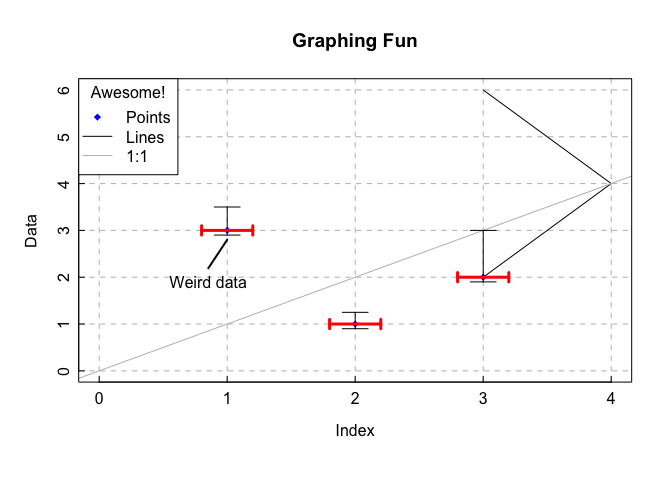
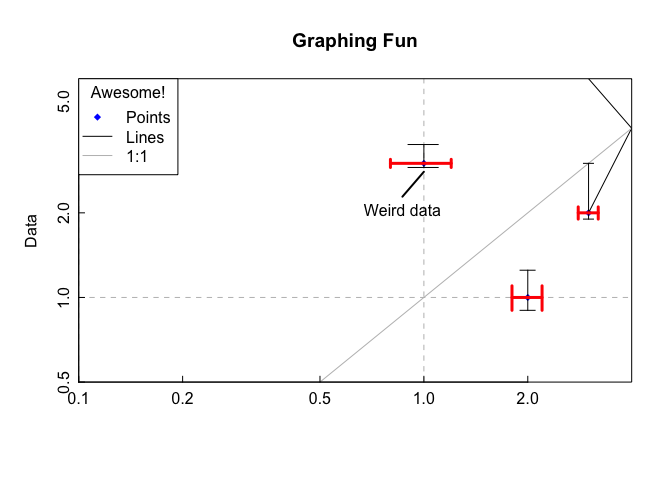
updates w/ logged. for #71

diff --git a/README.md b/README.md
@@ -25,9 +25,9 @@ Improved workflow examples
 library(gsplot)
 
 demoPlot <- gsplot() %>%
-   points( y=c(3,1,2), x=1:3, xlim=c(0,NA),ylim=c(0,NA),
-            col="blue", pch=18, legend.name="Points", xlab="Index") %>%
-  lines(c(3,4,3), c(2,4,6), legend.name="Lines", ylab="Data") %>%
+  points(y=c(3,1,2), x=1:3, xlim=c(0.1,NA),ylim=c(0.5,NA),
+         col="blue", pch=18, legend.name="Points", xlab="Index") %>%
+  lines(c(3,4,3), c(2,4,6), legend.name="Lines", ylab="Data", log='xy') %>%
   abline(b=1, a=0, legend.name="1:1") %>%
   legend("topleft",title="Awesome!") %>%
   grid() %>%
@@ -39,6 +39,19 @@ demoPlot
 ```
 
 ![](README_files/figure-markdown_github/unnamed-chunk-2-1.png)
+
+``` r
+library(gsplot)
+
+demoPlot <- gsplot() %>%
+  points(y=c(3,1,2), x=1:3, xlim=c(0.1,NA),ylim=c(0.5,NA),
+         col="blue", pch=18, legend.name="Points", xlab="Index") %>%
+  lines(c(3,4,3), c(2,4,6), legend.name="Lines", ylab="Data", xlab="logged axis", log='xy') %>%
+  title("logged axes")
+demoPlot
+```
+
+![](README_files/figure-markdown_github/unnamed-chunk-3-1.png)
 
 Disclaimer
 ----------
